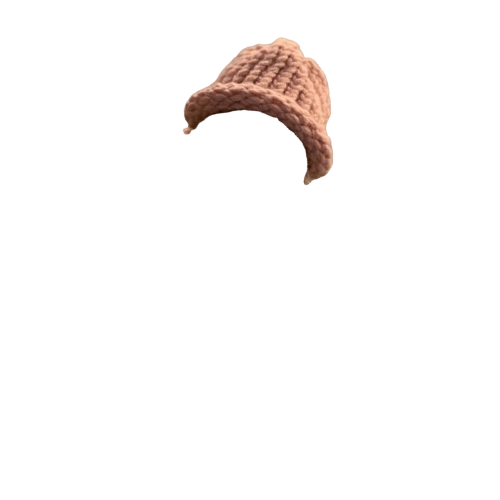
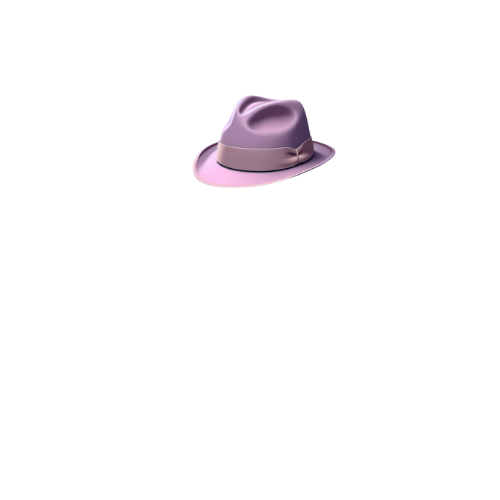
update

Changed region(s): [[0.36, 0.06, 0.69, 0.39]]

diff --git a/src/components/CatMeme.jsx b/src/components/CatMeme.jsx
@@ -5,7 +5,7 @@ import splashImg from '../assets/Villy/splash.png';
 
 const CatMeme = () => {
     const [selected, setSelected] = useState({
-        background: '33.png',
+        background: '2.png',
         character: '1.png',
         face: '',
         frontaccessory: '',
@@ -14,19 +14,19 @@ const CatMeme = () => {
 
     const [images, setImages] = useState({
         background: [
-            "29.png", "30.png", "31.png", "32.png", "33.png", "34.png", "35.png", "36.png", "37.png",  
+            "2.png", "3.png" ,"4.png" ,"5.png" ,"6.png" ,
         ],
         character: [
-            "1.png",
+            "1.png", "24.png", "27.png"
         ],
         face: [
-            "19.png", "20.png", "21.png", "22.png", "23.png", "24.png", "25.png", "26.png",  
+             "20.png", "21.png", "22.png", "23.png",  "26.png",  
         ],
         frontAccessory: [
-            "2.png", "4.png", "6.png", "8.png", "9.png", "12.png"
+            "16.png", "17.png",  "19.png", "25.png", "28.png"
         ],
         hat: [
-            "3.png", "7.png", "10.png", "14.png", "15.png", "16.png", "17.png", "18.png", "27.png", "28.png"
+            "7.png", "8.png", "9.png", "10.png", "11.png", "12.png", "13.png", "14.png", "15.png",
         ]
     });
 

diff --git a/public/index.html b/public/index.html
@@ -5,7 +5,7 @@
 		<link rel="icon" href="%PUBLIC_URL%/favicon.png" />
 		<meta name="viewport" content="width=device-width, initial-scale=1" />
 		<meta name="theme-color" content="#000000" />
-		<meta name="description" content="$$GRIMdog " />
+		<meta name="description" content="$GRIM" />
 		<link rel="apple-touch-icon" href="%PUBLIC_URL%/logo192.png" />
 		<!--
       manifest.json provides metadata used when your web app is installed on a
@@ -21,7 +21,7 @@
       work correctly both with client-side routing and a non-root public URL.
       Learn how to configure a non-root public URL by running `npm run build`.
     -->
-		<title>$$GRIMdog</title>
+		<title>$GRIM</title>
 	</head>
 	<body>
 		<noscript>You need to enable JavaScript to run this app.</noscript>
